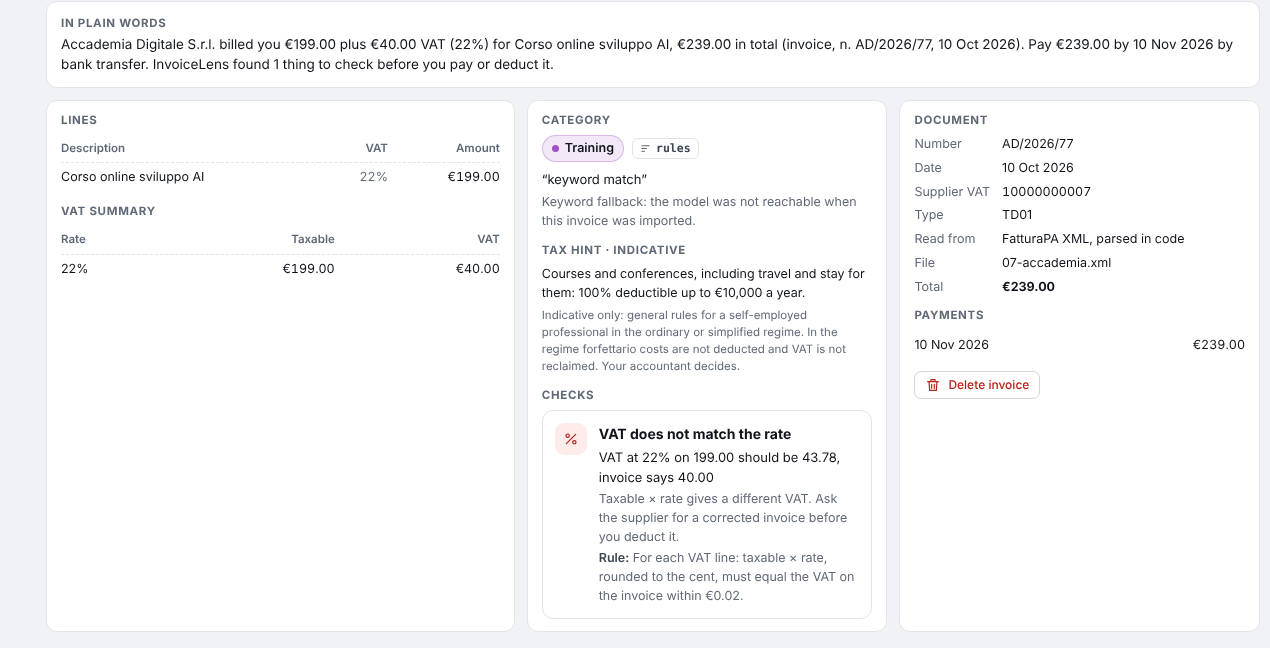
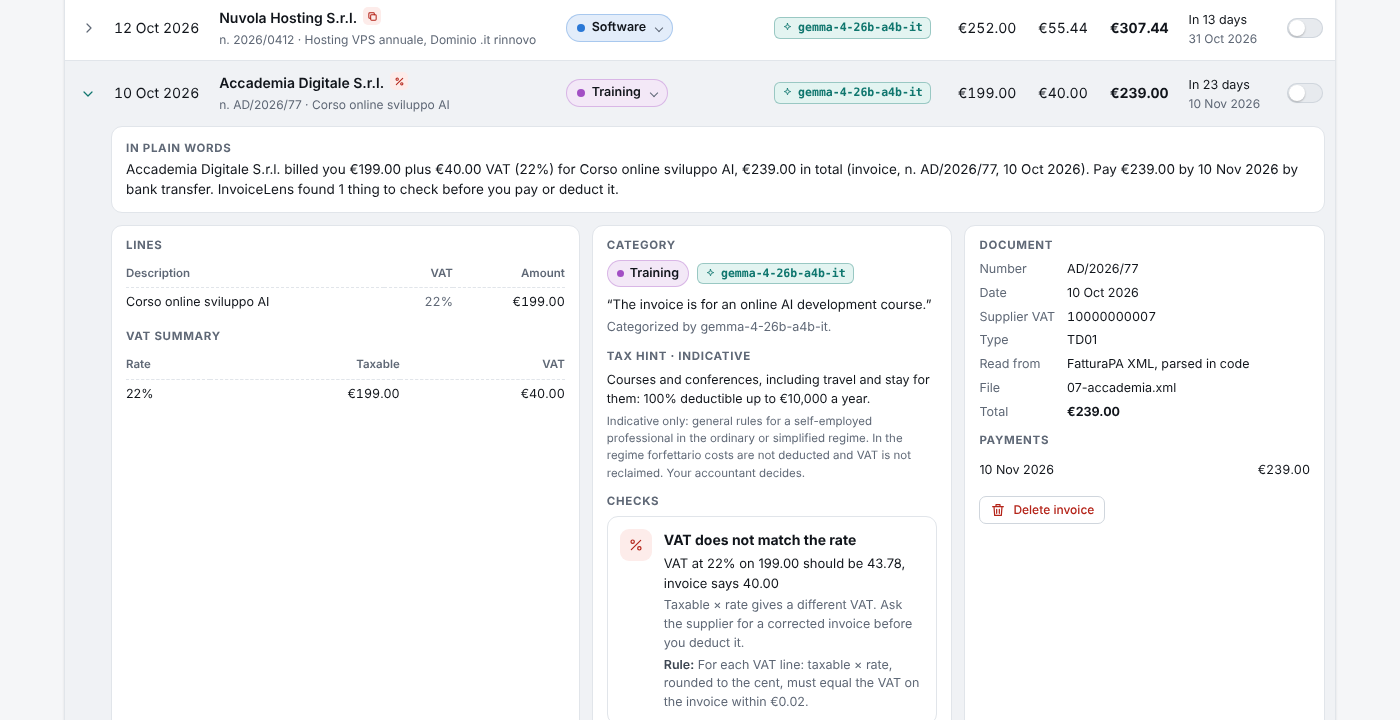
Screenshots categorized by Gemma 4 (gemma-4-26b-a4b-it)
Claude-Session: https://claude.ai/code/session_012QdDDc8F3JcQnYvTX1pLuy

diff --git a/README.md b/README.md
@@ -43,7 +43,7 @@ One page, no build step, no external scripts. Drag files anywhere on the page; e
 
 </details>
 
-These screenshots were taken with the model endpoint switched off, so every category is labelled `rules` (the keyword fallback). With Gemma running, the same column shows the model's name and its reason.
+The dashboard screenshots show the sample invoices categorized by Gemma 4 (`gemma-4-26b-a4b-it` on Google AI Studio's OpenAI-compatible endpoint, the same setup as the Render demo). The phone screenshot and the demo GIF are older and show the keyword fallback, labelled `rules`.
 
 ## Why local and open
 
